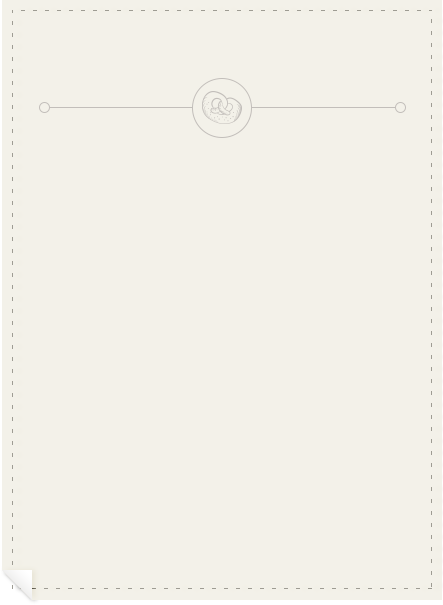
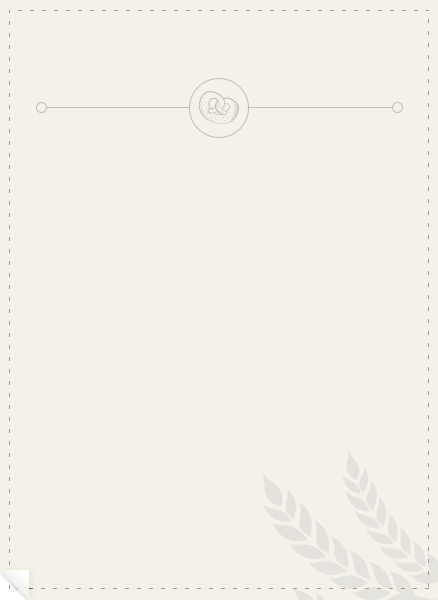
Thirs sectuon left column styling

diff --git a/assets/SASS/_section3.sass b/assets/SASS/_section3.sass
@@ -9,16 +9,59 @@
         display: grid
         grid-template-columns: repeat(2,1fr)
         padding: 89px 0 0 0
-        position: relative
+        font-family: 'Alegreya'
         #price
             text-align: center
+            display: flex
+            flex-direction: column
+            justify-content: space-between
+            margin: -11px 0 0 107px
+            #title
+                justify-self: flex-start
+                padding-bottom: 50px
+                h3
+                    font-size: 60px
+                    font-weight: bold
+                    letter-spacing: 3px
+                    margin: 0
+                h5
+                    text-transform: uppercase
+                    color: $gold4
+                    font-size: 18px
+                    letter-spacing: 0.8px
+                    font-weight: bold
+                    line-height: 17px
+            .title
+                font-size: 30px
+                font-weight: bold
+                letter-spacing: 1.5px
+            .caption
+                font-family: 'Proxima Nova Rg'
+                font-size: 16px
+                letter-spacing: 0.8px
+                color: $gray3
+            .pricetag
+                font-size: 36px
+                letter-spacing: 1.5px
+                color: $gold3
         #menu
             width: 441px
-            height: 605px
+            height: 602px
             background: url('../../img/menu-background.png')
-            background-position: center center
+            background-position: center left
             background-size: cover
             color: $gray2
             text-align: center
             justify-self: flex-end
             margin-right: 20px
+            padding: 10px
+            display: flex
+            flex-direction: column
+            justify-content: space-between
+            #top
+                display: flex
+                justify-content: space-between
+                &:first-child
+                    justify-self: flex-start
+                &:last-child
+                    justify-self: flex-end

diff --git a/index.html b/index.html
@@ -149,19 +149,25 @@
                         <h5>7am Breakfast? we’re open!</h5>
                     </div>
                     <div id="full">
-                        <h4>Full breakfast</h4>
-                        <p>Duis ut tortor, et risus, vulputate pretium</p>
-                        <h6>$12.49</h6>
+                        <h4 class="title">Full breakfast</h4>
+                        <p class="caption">Duis ut tortor, et risus, vulputate pretium</p>
+                        <h6 class="pricetag">$12.49</h6>
+                    </div>
+                    <div>
+                        <img src="img/mirror-wheat.png" alt="">
                     </div>
                     <div id="toast">
-                        <h4>Toast & Jam</h4>
-                        <p>Suspendisse, tempus, nterdum</p>
-                        <h6>$4.90</h6>
+                        <h4 class="title">Toast & Jam</h4>
+                        <p class="caption">Suspendisse, tempus, nterdum</p>
+                        <h6 class="pricetag">$4.90</h6>
+                    </div>
+                    <div>
+                        <img src="img/mirror-wheat.png" alt="">
                     </div>
                     <div id="muffin">
-                        <h4>$3.95</h4>
-                        <p>Fusce eget dui sodales est</p>
-                        <h6>$3.95</h6>
+                        <h4 class="title">Muffins</h4>
+                        <p class="caption">Fusce eget dui sodales est</p>
+                        <h6 class="pricetag">$3.95</h6>
                     </div>
                 </div>
                 <div id="menu">
@@ -169,7 +175,7 @@
                         <h5>EST.</h5>
                         <h5>1893</h5>
                     </div>
-                    <h3>Your morning Escape with Flair</h3>
+                    <h3>Your morning <br> Escape with Flair</h3>
                     <p>Donec vitae sapien ut libero venenatis faucibus. 
                         Nullam quis ante. Etiam sit amet orci eget eros
                          faucibus tincidunt. Duis leo.</p>

diff --git a/assets/SASS/_colors.sass b/assets/SASS/_colors.sass
@@ -9,7 +9,9 @@ $gradient       : rgba(86,83,76,0.7)
 $gold1          : #c9b176
 $gold2          : #a47d5e
 $gold3          : #DFC691
+$gold4          : #c8a593
 $gray1          : #d7d5ca
 $gray2          : #56534c
+$gray3          : #c2beba
 $shadow         : rgba(105, 80, 58, 0.45)
 $shadow2        : rgba(105, 80, 58, 0.3)
